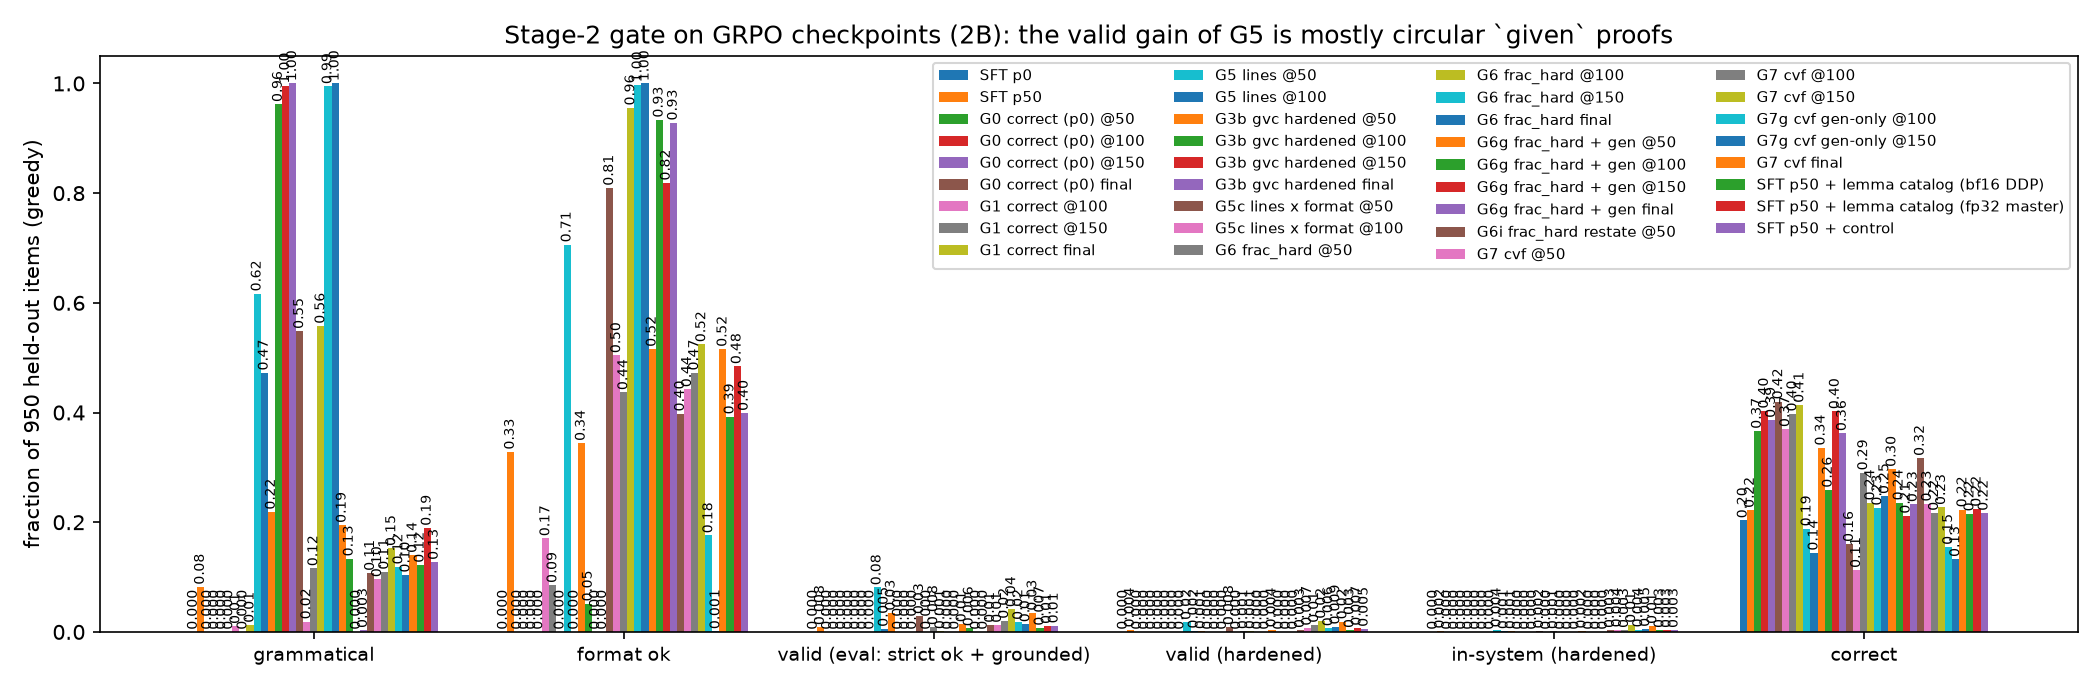
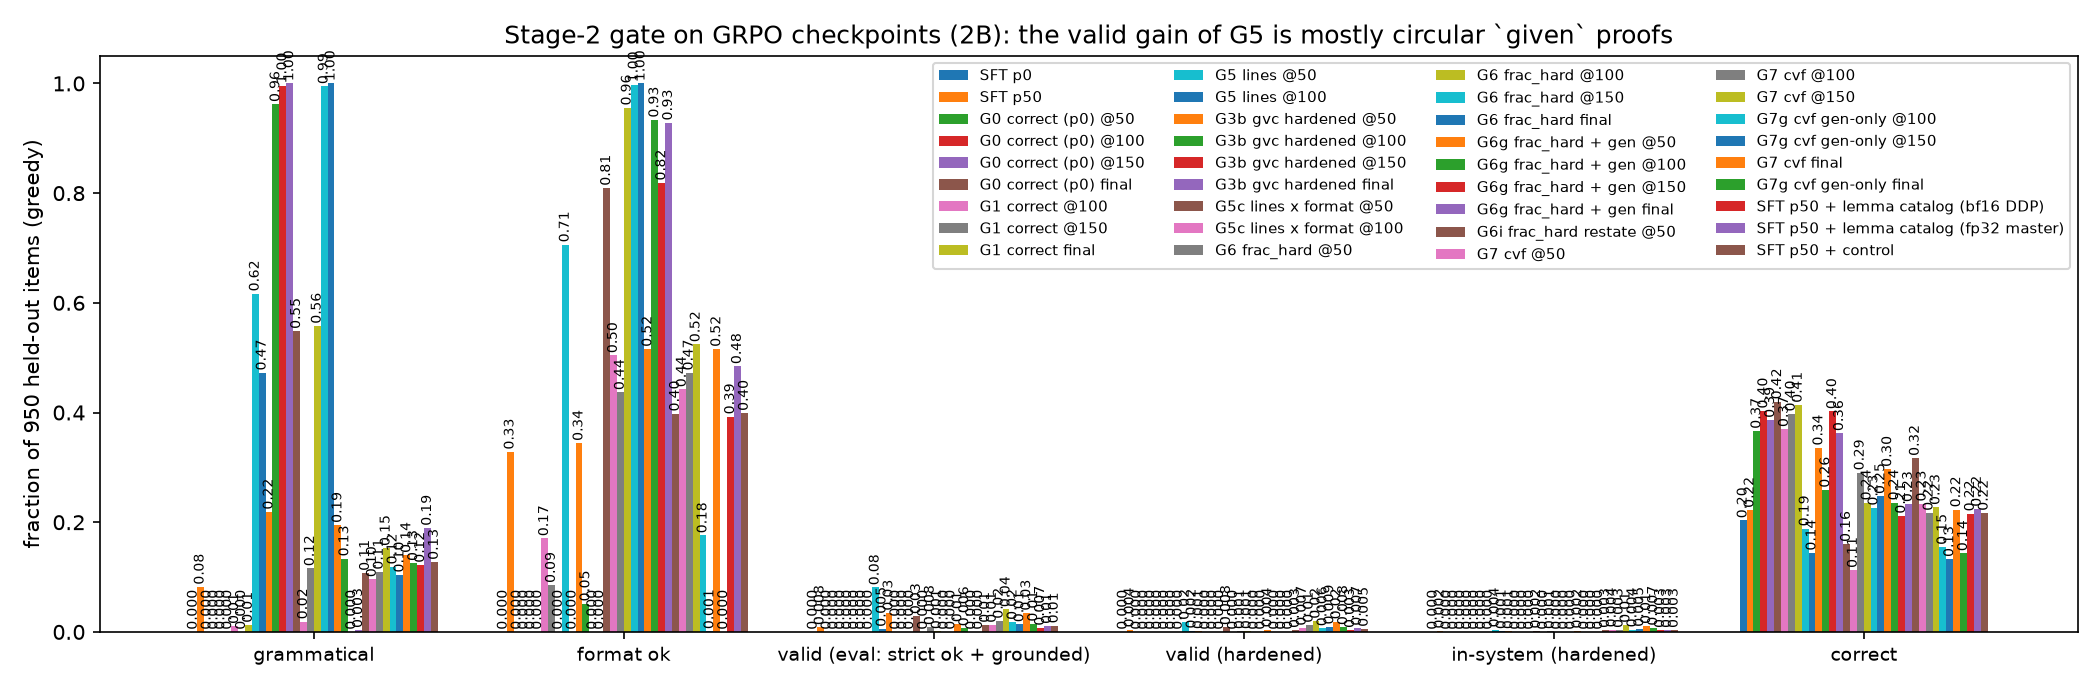
Stage 2: G7g final gate (gen-only GRPO does not transfer)
Claude-Session: https://claude.ai/code/session_01WnQYXLXLcnkw9LdZ4eJP3w

diff --git a/reports/2026-09-28_stage2_gate.md b/reports/2026-09-28_stage2_gate.md
@@ -769,3 +769,18 @@ Lib cites on the held-out Dolci gate (`analysis/lib_coverage.json`, `reports/fig
 - It is also the best SFT starting point on the Dolci gate (has_proof .60, grammatical .19, valid .007, correct unchanged). Validity on Dolci is still < 1%: knowing the lemma names is necessary, not sufficient.
 - Cost: in-domain valid .807 vs .870 for the control, since 5k of the 10k generator rows were replaced by catalog rows (in-domain lib cites stay 98% real).
 - Decision: the Stage-2 rerun base should include the lemma catalog (plus the fp32 fix); x3 (7088) and the corrected p50 (7147) do not include it yet.
+
+## 2026-09-29 22:20: G7g final (cvf, generator prompts only)
+
+Gate (Dolci `rl_gate_dolci`, 2B p50 base; figure `figures/stage2_gate_ckpts.png`):
+
+| model | has_proof | grammatical | format_ok | valid | in-system | correct |
+|---|---|---|---|---|---|---|
+| SFT p50 | .399 | .082 | .328 | .004 | .002 | .222 |
+| G7 cvf final (gen + Dolci) | .778 | .140 | .516 | .019 | .011 | .223 |
+| G7g cvf @150 (gen only) | .547 | .104 | .001 | .009 | .005 | .133 |
+| G7g cvf final (gen only) | .589 | .125 | .000 | .008 | .007 | .143 |
+
+Train split (`figures/grpo_train_split.png`): G7g gen valid peaks at .611 at step 170 and ends at .556 (step 200); gen correct .69-.75.
+
+**Reading.** Training GRPO on generator prompts alone makes the model better at generator problems, but that does not carry over to Dolci. On the gate, format_ok collapses to 0: the model stops emitting the Dolci answer format. Correct drops from .222 to .143, and valid (.008) stays at SFT level. G7 matches G7g's in-domain signal and keeps correct at .223, so Dolci prompts must be in the RL mix. This closes the gen-only question. G8 (the G7 recipe from the lemma-catalog fp32 base, 7167, step ~40/200) tests the base instead.
